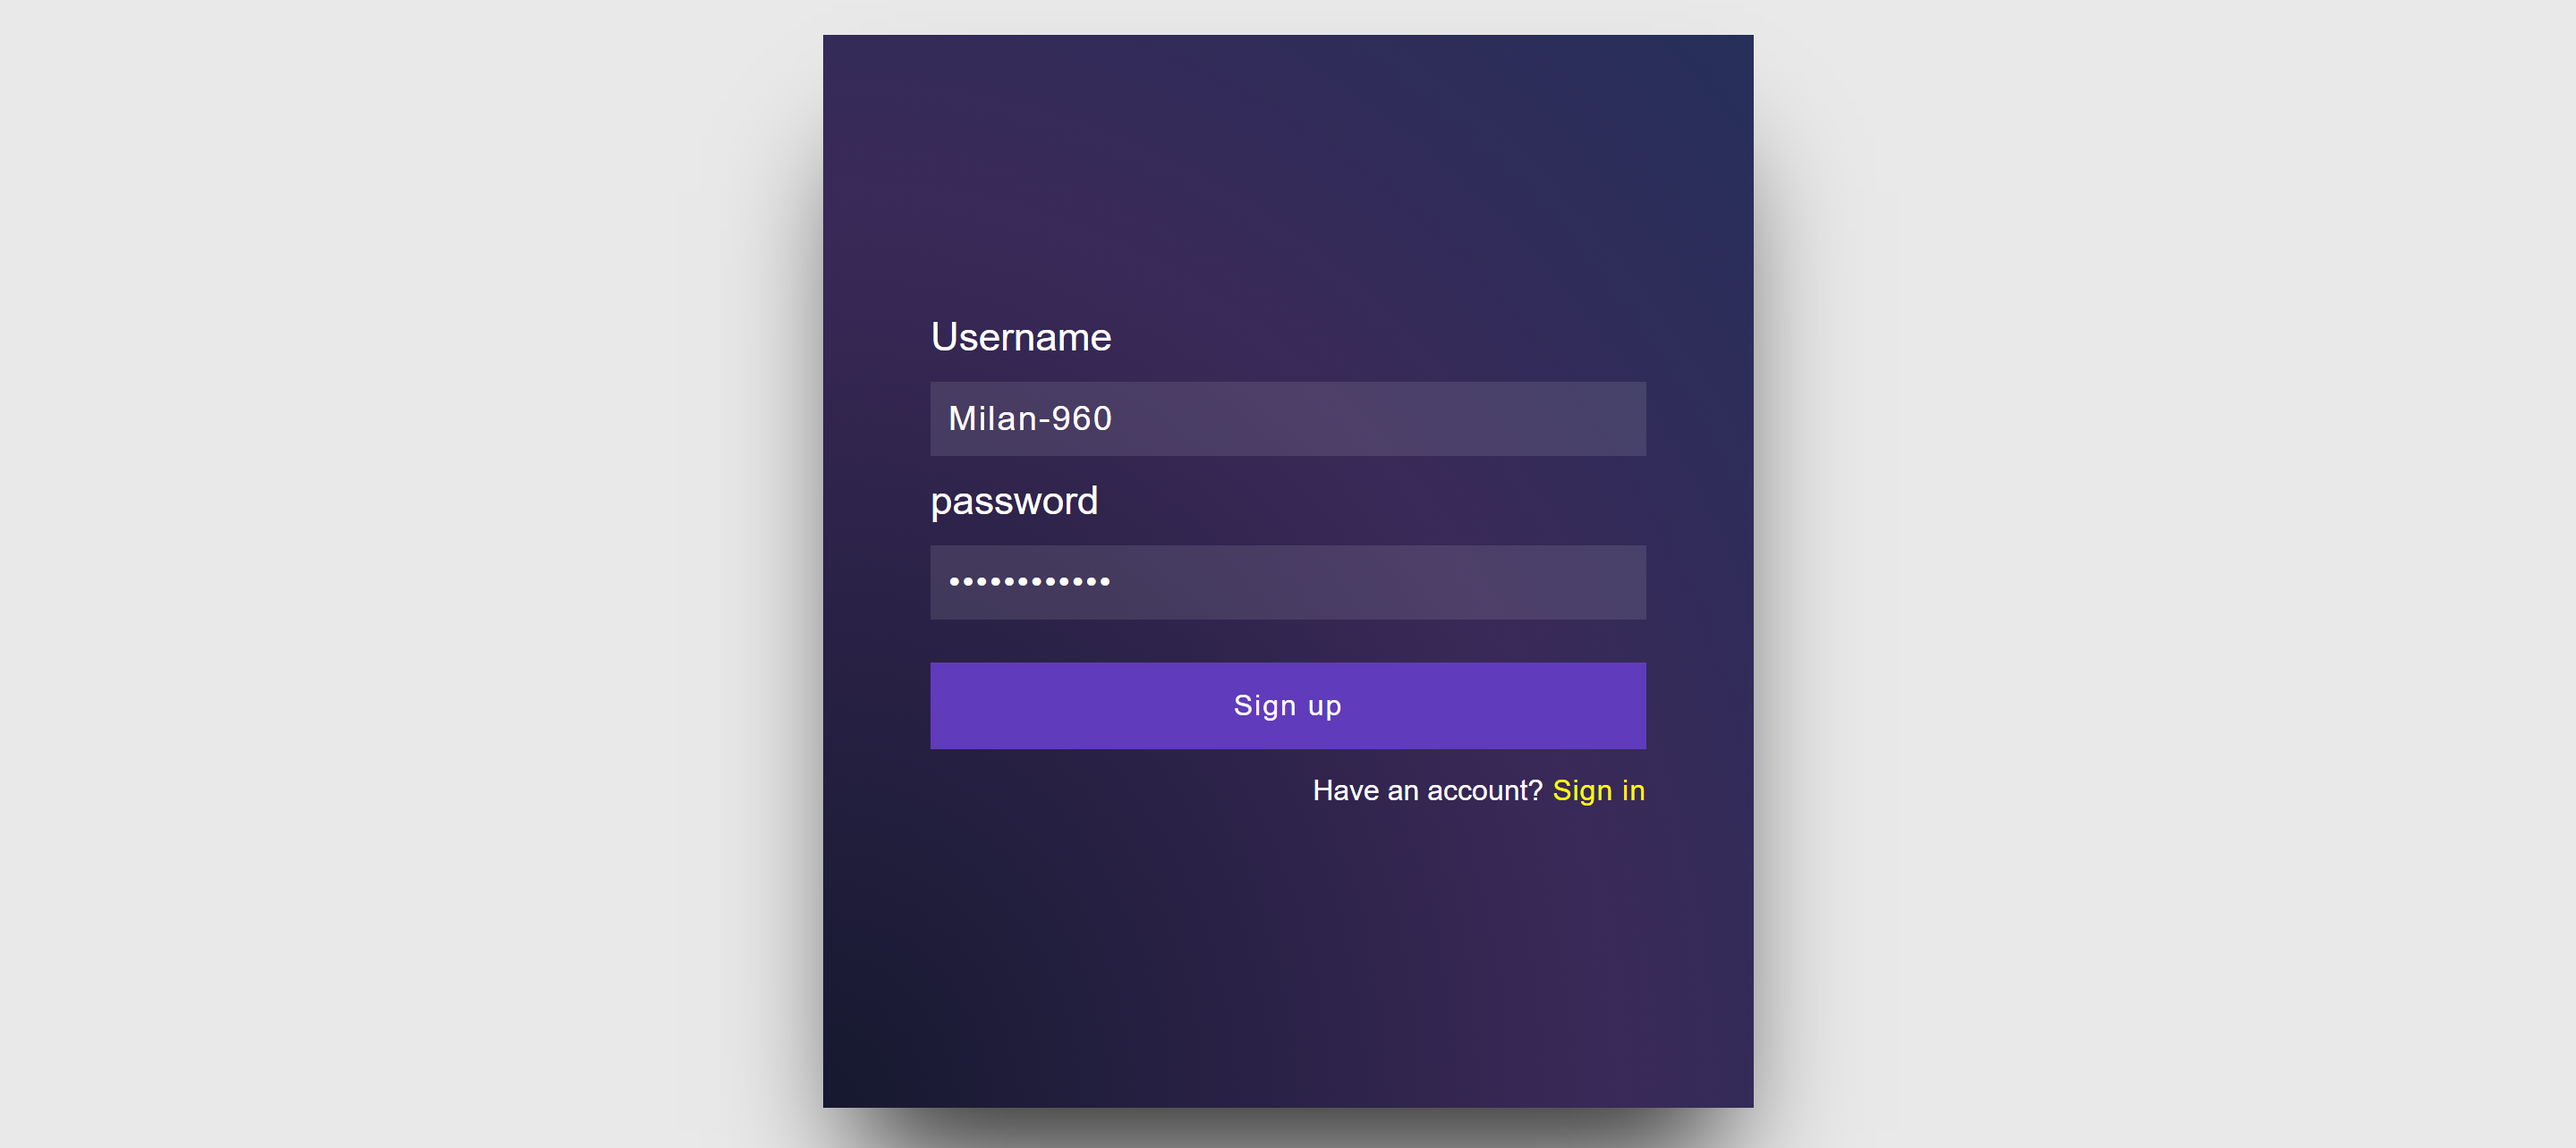
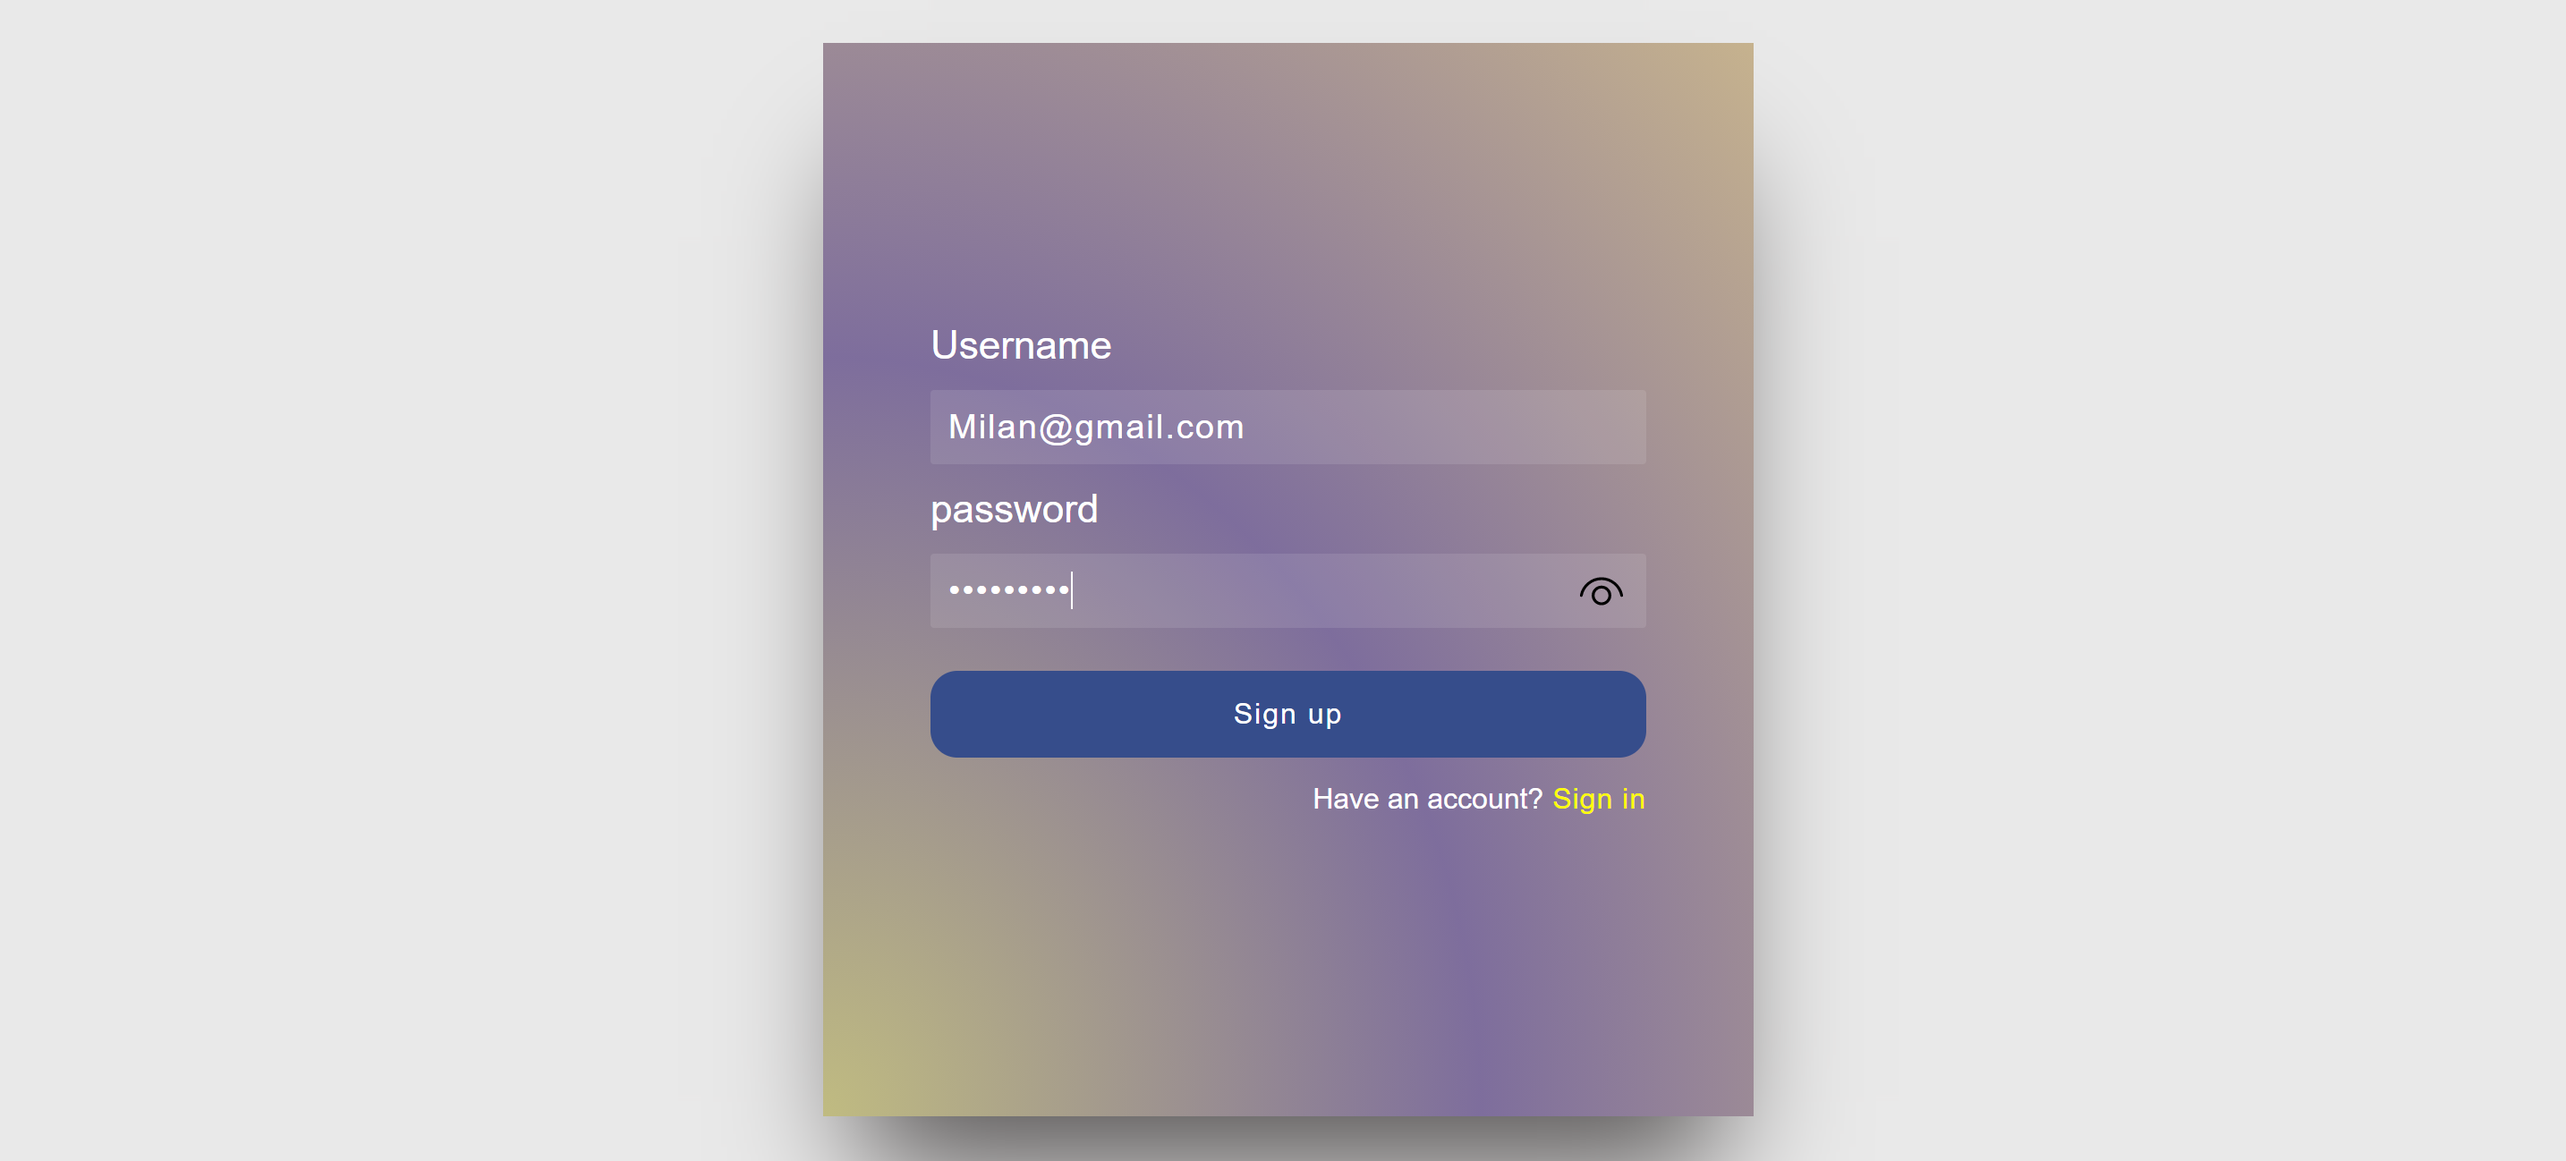
IMG ADDED

diff --git a/src/App.css b/src/App.css
@@ -13,11 +13,17 @@ button {
   color: #fff;
   font-size: 16px;
   letter-spacing: 1px;
-  background: #603bbb;
+  border-radius: 15px;
+  background: rgb(54, 77, 139);
   cursor: pointer;
 }
-
+button:hover {
+  border-radius: 15px;
+  background-color:rgba(114, 96, 148, 0.9);
+  cursor: pointer;
+}
 .login {
+
   width: 100%;
   min-height: 100vh;
   padding: 0 20px;
@@ -36,11 +42,11 @@ button {
   justify-content: center;
   background: radial-gradient(
     ellipse at left bottom,
-    rgba(22, 24, 47, 1) 0%,
-    rgba(38, 20, 72, 0.9) 59%,
-    rgba(17, 27, 75, 0.9) 100%
+    rgba(189, 184, 122, 0.938) 0%,
+    rgba(114, 96, 148, 0.9) 50%,
+    rgba(194, 172, 132, 0.9) 100%
   );
-  box-shadow: 0 50px 70px -20px rgba(0, 0, 0, 0.8);
+  box-shadow: 0 50px 70px -20px rgba(51, 47, 47, 0.8);
 }
 
 .login .loginContainer label {
@@ -89,34 +95,4 @@ button {
 .login .loginContainer .errorMsg {
   color: red;
   font-size: 16px;
-}
-
-.hero {
-  width: 100%;
-  min-height: 100vh;
-  background: radial-gradient(
-    ellipse at left bottom,
-    rgba(22, 24, 47, 1) 0%,
-    rgba(38, 20, 72, 0.9) 59%,
-    rgba(17, 27, 75, 0.9) 100%
-  );
-}
-
-.hero nav {
-  background: #603bbb;
-  width: 100%;
-  padding: 20px 40px;
-  display: flex;
-  align-items: center;
-  justify-content: space-between;
-}
-
-.hero nav h2 {
-  color: #fff;
-}
-
-.hero nav button {
-  width: 86px;
-  padding: 8px 0;
-  background: #3a2b58;
 }

diff --git a/src/Components/Hero.css b/src/Components/Hero.css
@@ -1,0 +1,32 @@
+
+.hero {
+   
+    width: 100%;
+    min-height: 100vh;
+    background: radial-gradient(
+      ellipse at left bottom,
+      rgba(189, 184, 122, 0.938) 0%,
+      rgba(114, 96, 148, 0.9) 50%,
+      rgba(194, 172, 132, 0.9) 100%
+    );
+  }
+  
+  .hero nav {
+    background: black;
+    width: 100%;
+    padding: 20px 40px;
+    display: flex;
+    align-items: center;
+    justify-content: space-between;
+  }
+  
+  .hero nav h2 {
+    color: #fff;
+  }
+  
+  .hero nav button {
+    width: 86px;
+    padding: 8px 0;
+    background: lightpink;
+  }
+  

diff --git a/src/Components/Hero.js b/src/Components/Hero.js
@@ -1,14 +1,18 @@
 import React from "react";
+import "./Hero.css";
 
 const Hero = ({ handleLogout }) => {
+  var img = document.createElement("img");
+  img.src =
+    "https://media.geeksforgeeks.org/wp-content/uploads/20190529122828/bs21.png";
   return (
     <section className="hero">
       <nav>
-        <h2> welcome to Milan's Gym</h2>
+        <h2>M-GYM</h2>
+        <h2>We are Gald to see you!</h2>
         <button onClick={handleLogout}> LogOut </button>
       </nav>
     </section>
-    
   );
 };
 
